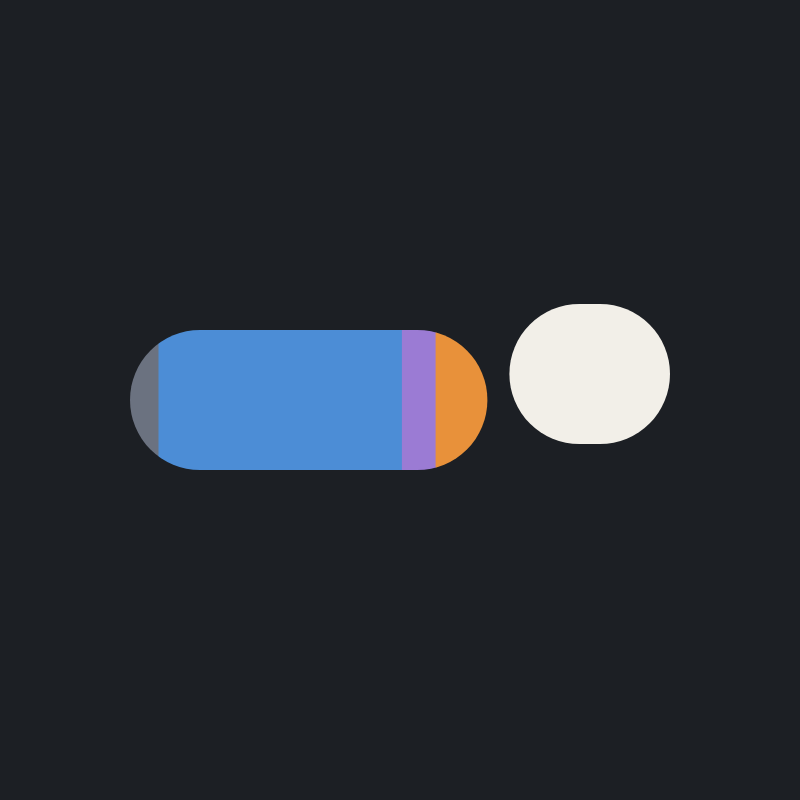
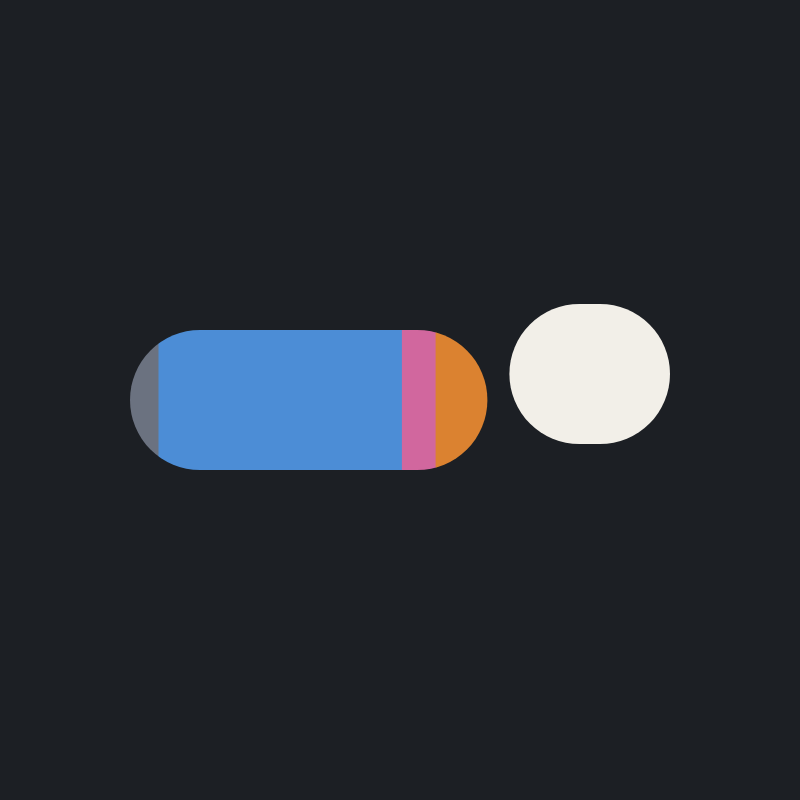
Add example video frames; fix colorblind clash in the slice palette
Six 1920x1080 example frames (The Split, Deal File, big number, comparison,
operator's ledger, TV layout guide) and a thumbnail concept. Payments slice
changes from violet to pink and location orange darkens slightly: violet
next to blue failed the colorblind-separation check. Logo re-rendered.

Claude-Session: https://claude.ai/code/session_019GF7TopvasLHrHcaYox71L

Changed region(s): [[0.5, 0.4062, 0.5625, 0.5938]]

diff --git a/brand/src/brand.html b/brand/src/brand.html
@@ -3,28 +3,28 @@
 <g clip-path="url(#c130330540)">
 <rect x="130.0" y="330" width="29.5" height="140" fill="#6B7280"/>
 <rect x="158.5" y="330" width="244.5" height="140" fill="#4C8DD6"/>
-<rect x="401.9" y="330" width="34.7" height="140" fill="#9B7BD4"/>
-<rect x="435.6" y="330" width="52.8" height="140" fill="#E8913A"/>
+<rect x="401.9" y="330" width="34.7" height="140" fill="#D1679E"/>
+<rect x="435.6" y="330" width="52.8" height="140" fill="#DB8230"/>
 </g>
-<rect x="509.4" y="304" width="160.6" height="140" rx="70.0" fill="#F2EFE8"/></svg><svg id="c2" xmlns="http://www.w3.org/2000/svg" width="800" height="800" viewBox="0 0 800 800"><rect width="800" height="800" fill="#1C1F24"/><path transform="translate(0.0,0.0)" d="M390,410 L622.4,502.0 A250,250 0 1 1 390.0,160.0 Z" fill="#E8913A"/><circle cx="390" cy="410" r="200" fill="none" stroke="#1C1F24" stroke-width="10" opacity=".35"/><path transform="translate(28.1,-19.1)" d="M390,410 L390.0,160.0 A250,250 0 0 1 622.4,502.0 Z" fill="#F2EFE8"/></svg><svg id="c3" xmlns="http://www.w3.org/2000/svg" width="800" height="800" viewBox="0 0 800 800"><rect width="800" height="800" fill="#1C1F24"/><text x="400" y="470" text-anchor="middle" style="font-family:'Inter Display','Inter',sans-serif;font-weight:900;font-size:330px;letter-spacing:-8px" fill="#F2EFE8">DP</text><clipPath id="c190540420"><rect x="190" y="540" width="281.5" height="52" rx="26.0"/></clipPath>
+<rect x="509.4" y="304" width="160.6" height="140" rx="70.0" fill="#F2EFE8"/></svg><svg id="c2" xmlns="http://www.w3.org/2000/svg" width="800" height="800" viewBox="0 0 800 800"><rect width="800" height="800" fill="#1C1F24"/><path transform="translate(0.0,0.0)" d="M390,410 L622.4,502.0 A250,250 0 1 1 390.0,160.0 Z" fill="#DB8230"/><circle cx="390" cy="410" r="200" fill="none" stroke="#1C1F24" stroke-width="10" opacity=".35"/><path transform="translate(28.1,-19.1)" d="M390,410 L390.0,160.0 A250,250 0 0 1 622.4,502.0 Z" fill="#F2EFE8"/></svg><svg id="c3" xmlns="http://www.w3.org/2000/svg" width="800" height="800" viewBox="0 0 800 800"><rect width="800" height="800" fill="#1C1F24"/><text x="400" y="470" text-anchor="middle" style="font-family:'Inter Display','Inter',sans-serif;font-weight:900;font-size:330px;letter-spacing:-8px" fill="#F2EFE8">DP</text><clipPath id="c190540420"><rect x="190" y="540" width="281.5" height="52" rx="26.0"/></clipPath>
 <g clip-path="url(#c190540420)">
 <rect x="190.0" y="540" width="23.4" height="52" fill="#6B7280"/>
 <rect x="212.4" y="540" width="192.8" height="52" fill="#4C8DD6"/>
-<rect x="404.2" y="540" width="27.5" height="52" fill="#9B7BD4"/>
-<rect x="430.7" y="540" width="41.8" height="52" fill="#E8913A"/>
+<rect x="404.2" y="540" width="27.5" height="52" fill="#D1679E"/>
+<rect x="430.7" y="540" width="41.8" height="52" fill="#DB8230"/>
 </g>
 <rect x="483.5" y="540" width="126.5" height="52" rx="26.0" fill="#F2EFE8"/></svg><svg id="wm" xmlns="http://www.w3.org/2000/svg" width="1600" height="400" viewBox="0 0 1600 400"><rect width="1600" height="400" fill="#1C1F24"/><text x="800" y="235" text-anchor="middle" style="font-family:'Inter Display','Inter',sans-serif;font-weight:900;font-size:170px;letter-spacing:4px"><tspan fill="#8B93A1">DULL</tspan><tspan dx="38" fill="#F2EFE8">PROFITS</tspan></text><clipPath id="c2502851100"><rect x="250" y="285" width="749.3" height="34" rx="17.0"/></clipPath>
 <g clip-path="url(#c2502851100)">
 <rect x="250.0" y="285" width="60.7" height="34" fill="#6B7280"/>
 <rect x="309.7" y="285" width="511.4" height="34" fill="#4C8DD6"/>
-<rect x="820.1" y="285" width="71.6" height="34" fill="#9B7BD4"/>
-<rect x="890.7" y="285" width="109.6" height="34" fill="#E8913A"/>
+<rect x="820.1" y="285" width="71.6" height="34" fill="#D1679E"/>
+<rect x="890.7" y="285" width="109.6" height="34" fill="#DB8230"/>
 </g>
 <rect x="1013.3" y="285" width="336.7" height="34" rx="17.0" fill="#F2EFE8"/></svg><svg id="ban" xmlns="http://www.w3.org/2000/svg" width="2560" height="1440" viewBox="0 0 2560 1440"><rect width="2560" height="1440" fill="#1C1F24"/><text x="1280" y="700" text-anchor="middle" style="font-family:'Inter Display','Inter',sans-serif;font-weight:900;font-size:150px;letter-spacing:4px"><tspan fill="#8B93A1">DULL</tspan><tspan dx="34" fill="#F2EFE8">PROFITS</tspan></text><clipPath id="c800735960"><rect x="800" y="735" width="654.1" height="30" rx="15.0"/></clipPath>
 <g clip-path="url(#c800735960)">
 <rect x="800.0" y="735" width="53.1" height="30" fill="#6B7280"/>
 <rect x="852.1" y="735" width="446.6" height="30" fill="#4C8DD6"/>
-<rect x="1297.7" y="735" width="62.6" height="30" fill="#9B7BD4"/>
-<rect x="1359.3" y="735" width="95.8" height="30" fill="#E8913A"/>
+<rect x="1297.7" y="735" width="62.6" height="30" fill="#D1679E"/>
+<rect x="1359.3" y="735" width="95.8" height="30" fill="#DB8230"/>
 </g>
 <rect x="1466.1" y="735" width="293.9" height="30" rx="15.0" fill="#F2EFE8"/><text x="1280" y="852" text-anchor="middle" style="font-family:Inter,sans-serif;font-weight:500;font-size:50px" fill="#F2EFE8" opacity=".85">The real numbers behind unglamorous businesses</text></svg></body></html>

diff --git a/docs/visual-examples/src/01-the-split.html b/docs/visual-examples/src/01-the-split.html
@@ -1,0 +1,18 @@
+<!doctype html><html><head><meta charset="utf-8"><style>
+*{box-sizing:border-box;margin:0;padding:0}
+body{width:1920px;height:1080px;background:#1C1F24;color:#F2EFE8;font-family:Inter,sans-serif;
+     font-variant-numeric:tabular-nums;overflow:hidden;position:relative}
+.h{font-family:'Inter Display',Inter,sans-serif;font-weight:900}
+.src{position:absolute;left:116px;top:862px;font:600 36px Inter;letter-spacing:1px;color:#8B93A1;text-transform:uppercase}
+.src b{color:#B9BEC7;font-weight:700}
+.title{position:absolute;left:116px;top:104px;font-size:60px;font-weight:800;letter-spacing:-.5px}
+.kicker{position:absolute;left:116px;top:56px;font:700 36px Inter;letter-spacing:3px;color:#8B93A1;text-transform:uppercase}
+</style></head><body>
+<div class="kicker">Follow the two dollars</div>
+<div class="title">Where a $2.00 vending soda goes</div>
+<div style="position:absolute;right:116px;top:60px;text-align:right">
+  <div style="font:700 36px Inter;letter-spacing:3px;color:#8B93A1;text-transform:uppercase">Operator keeps</div>
+  <div class="h" style="font-size:150px;line-height:1">$0.62</div>
+</div>
+<svg width="1920" height="1080" style="position:absolute;left:0;top:0" font-family="Inter"><rect x="116.0" y="420" width="91.5" height="150" rx="18" fill="#6B7280"/><line x1="161.8" y1="580" x2="161.8" y2="586" stroke="#343944" stroke-width="3"/><rect x="213.5" y="420" width="782.1" height="150" rx="18" fill="#4C8DD6"/><line x1="604.6" y1="580" x2="604.6" y2="711" stroke="#343944" stroke-width="3"/><rect x="1001.6" y="420" width="108.2" height="150" rx="18" fill="#D1679E"/><line x1="1055.7" y1="580" x2="1055.7" y2="711" stroke="#343944" stroke-width="3"/><rect x="1115.8" y="420" width="166.4" height="150" rx="18" fill="#DB8230"/><line x1="1199.0" y1="580" x2="1199.0" y2="586" stroke="#343944" stroke-width="3"/><rect x="1288.2" y="420" width="515.8" height="150" rx="18" fill="#F2EFE8"/><text x="1546.1" y="517.0" text-anchor="middle" font-size="58" font-weight="900" fill="#1C1F24" font-family="Inter Display">YOU 62¢</text><text x="116.0" y="630" text-anchor="start" font-size="40" font-weight="700" fill="#B9BEC7">TAX</text><text x="116.0" y="680" text-anchor="start" font-size="44" font-weight="800" fill="#F2EFE8">11¢</text><text x="604.6" y="755" text-anchor="middle" font-size="40" font-weight="700" fill="#B9BEC7">SUPPLIER</text><text x="604.6" y="805" text-anchor="middle" font-size="44" font-weight="800" fill="#F2EFE8">94¢</text><text x="1055.7" y="755" text-anchor="middle" font-size="40" font-weight="700" fill="#B9BEC7">CARD + SOFTWARE</text><text x="1055.7" y="805" text-anchor="middle" font-size="44" font-weight="800" fill="#F2EFE8">13¢</text><text x="1199.0" y="630" text-anchor="middle" font-size="40" font-weight="700" fill="#B9BEC7">LOCATION</text><text x="1199.0" y="680" text-anchor="middle" font-size="44" font-weight="800" fill="#F2EFE8">20¢</text></svg>
+<div class="src"><b>Source:</b> VMFS USA revenue-split model (6% tax, 10% commission)</div></body></html>

diff --git a/docs/visual-examples/src/05-operators-ledger.html b/docs/visual-examples/src/05-operators-ledger.html
@@ -1,0 +1,14 @@
+<!doctype html><html><head><meta charset="utf-8"><style>
+*{box-sizing:border-box;margin:0;padding:0}
+body{width:1920px;height:1080px;background:#1C1F24;color:#F2EFE8;font-family:Inter,sans-serif;
+     font-variant-numeric:tabular-nums;overflow:hidden;position:relative}
+.h{font-family:'Inter Display',Inter,sans-serif;font-weight:900}
+.src{position:absolute;left:116px;top:862px;font:600 36px Inter;letter-spacing:1px;color:#8B93A1;text-transform:uppercase}
+.src b{color:#B9BEC7;font-weight:700}
+.title{position:absolute;left:116px;top:104px;font-size:60px;font-weight:800;letter-spacing:-.5px}
+.kicker{position:absolute;left:116px;top:56px;font:700 36px Inter;letter-spacing:3px;color:#8B93A1;text-transform:uppercase}
+</style></head><body>
+<div class="kicker">A beginner's first six months</div>
+<div class="title">One operator's ledger</div>
+<div style="position:absolute;left:116px;top:200px;width:1688px"><div style="display:flex;justify-content:space-between;align-items:baseline;padding:26px 0;border-bottom:3px solid #343944;"><span style="font-size:48px">Two refurbished machines</span><span><span class="h" style="font-size:60px">$3,200</span><span style="font-size:36px;color:#B9BEC7"> </span></span></div><div style="display:flex;justify-content:space-between;align-items:baseline;padding:26px 0;border-bottom:3px solid #343944;"><span style="font-size:48px">Starting stock</span><span><span class="h" style="font-size:60px">$400</span><span style="font-size:36px;color:#B9BEC7"> </span></span></div><div style="display:flex;justify-content:space-between;align-items:baseline;padding:26px 0;border-bottom:3px solid #343944;"><span style="font-size:48px">Office machine (~50 staff)</span><span><span class="h" style="font-size:60px">$280–350</span><span style="font-size:36px;color:#B9BEC7"> /mo sales</span></span></div><div style="display:flex;justify-content:space-between;align-items:baseline;padding:26px 0;border-bottom:3px solid #343944;"><span style="font-size:48px">Auto repair shop</span><span><span class="h" style="font-size:60px">$120–180</span><span style="font-size:36px;color:#B9BEC7"> /mo sales</span></span></div><div style="display:flex;justify-content:space-between;align-items:baseline;padding:26px 0;border-bottom:3px solid #343944;color:#F2EFE8;font-weight:800"><span style="font-size:48px">Kept after gas, stock, repairs</span><span><span class="h" style="font-size:60px">$130–150</span><span style="font-size:36px;color:#B9BEC7"> /mo</span></span></div></div>
+<div class="src"><b>Source:</b> self-reported on Reddit (via Benzinga, Jan 2026), unverified</div></body></html>

diff --git a/docs/visual-examples/src/02-deal-file.html b/docs/visual-examples/src/02-deal-file.html
@@ -1,0 +1,22 @@
+<!doctype html><html><head><meta charset="utf-8"><style>
+*{box-sizing:border-box;margin:0;padding:0}
+body{width:1920px;height:1080px;background:#1C1F24;color:#F2EFE8;font-family:Inter,sans-serif;
+     font-variant-numeric:tabular-nums;overflow:hidden;position:relative}
+.h{font-family:'Inter Display',Inter,sans-serif;font-weight:900}
+.src{position:absolute;left:116px;top:862px;font:600 36px Inter;letter-spacing:1px;color:#8B93A1;text-transform:uppercase}
+.src b{color:#B9BEC7;font-weight:700}
+.title{position:absolute;left:116px;top:104px;font-size:60px;font-weight:800;letter-spacing:-.5px}
+.kicker{position:absolute;left:116px;top:56px;font:700 36px Inter;letter-spacing:3px;color:#8B93A1;text-transform:uppercase}
+</style></head><body>
+<svg width="1920" height="1080" style="position:absolute;left:0;top:0"><defs>
+<filter id="n"><feTurbulence type="fractalNoise" baseFrequency=".9" numOctaves="2" seed="3"/><feColorMatrix values="0 0 0 0 0  0 0 0 0 0  0 0 0 0 0  0 0 0 .08 0"/></filter></defs>
+<rect width="1920" height="1080" fill="#15171B"/><rect width="1920" height="1080" filter="url(#n)"/></svg>
+<div class="kicker">The deal file</div>
+<div style="position:absolute;left:250px;top:150px;width:1420px;padding:64px 80px;background:#EDE9E0;color:#22252B;
+  transform:rotate(-1.2deg);box-shadow:0 30px 80px rgba(0,0,0,.55);font-family:'DejaVu Serif',Georgia,serif">
+  <div style="font:700 34px Inter;letter-spacing:2px;color:#6B6F78;text-transform:uppercase;margin-bottom:34px">LAWA Board report · Feb 16, 2023 · excerpt (retyped)</div>
+  <div style="font-size:48px;line-height:1.55">First Class will pay LAWA the greater of a minimum monthly guarantee of $100 per machine or
+  <span style="background:linear-gradient(transparent 12%, #F5D547cc 12%, #F5D547cc 92%, transparent 92%);padding:0 6px;font-weight:700">59.5 percent of gross sales</span>
+  over the five-year term and any approved options.</div>
+</div>
+<div class="src"><b>Source:</b> LA Board of Airport Commissioners, Feb 16 2023</div></body></html>

diff --git a/docs/visual-examples/src/04-comparison.html b/docs/visual-examples/src/04-comparison.html
@@ -1,0 +1,15 @@
+<!doctype html><html><head><meta charset="utf-8"><style>
+*{box-sizing:border-box;margin:0;padding:0}
+body{width:1920px;height:1080px;background:#1C1F24;color:#F2EFE8;font-family:Inter,sans-serif;
+     font-variant-numeric:tabular-nums;overflow:hidden;position:relative}
+.h{font-family:'Inter Display',Inter,sans-serif;font-weight:900}
+.src{position:absolute;left:116px;top:862px;font:600 36px Inter;letter-spacing:1px;color:#8B93A1;text-transform:uppercase}
+.src b{color:#B9BEC7;font-weight:700}
+.title{position:absolute;left:116px;top:104px;font-size:60px;font-weight:800;letter-spacing:-.5px}
+.kicker{position:absolute;left:116px;top:56px;font:700 36px Inter;letter-spacing:3px;color:#8B93A1;text-transform:uppercase}
+</style></head><body>
+<div class="kicker">Micro markets and smart stores</div>
+<div class="title">Average purchase, 2025</div>
+<svg width="1920" height="1080" style="position:absolute;left:0;top:0" font-family="Inter">
+  <line x1="560" y1="270" x2="560" y2="755" stroke="#343944" stroke-width="3"/><text x="524" y="368" text-anchor="end" font-size="48" font-weight="700" fill="#F2EFE8">Vending machine</text><rect x="560" y="300" width="452" height="100" rx="8" fill="#4C8DD6"/><text x="1040" y="370" font-size="64" font-weight="900" font-family="Inter Display" fill="#F2EFE8">$2.01</text><text x="524" y="533" text-anchor="end" font-size="48" font-weight="700" fill="#F2EFE8">Micro market</text><rect x="560" y="465" width="679" height="100" rx="8" fill="#4C8DD6"/><text x="1267" y="535" font-size="64" font-weight="900" font-family="Inter Display" fill="#F2EFE8">$3.02</text><text x="524" y="698" text-anchor="end" font-size="48" font-weight="700" fill="#F2EFE8">Smart store</text><rect x="560" y="630" width="1010" height="100" rx="8" fill="#4C8DD6"/><text x="1598" y="700" font-size="64" font-weight="900" font-family="Inter Display" fill="#F2EFE8">$4.49</text></svg>
+<div class="src"><b>Source:</b> Cantaloupe Micropayment Trends Report 2026</div></body></html>

diff --git a/docs/visual-examples/src/06-tv-layout-guide.html b/docs/visual-examples/src/06-tv-layout-guide.html
@@ -1,0 +1,22 @@
+<!doctype html><html><head><meta charset="utf-8"><style>
+*{box-sizing:border-box;margin:0;padding:0}
+body{width:1920px;height:1080px;background:#1C1F24;color:#F2EFE8;font-family:Inter,sans-serif;
+     font-variant-numeric:tabular-nums;overflow:hidden;position:relative}
+.h{font-family:'Inter Display',Inter,sans-serif;font-weight:900}
+.src{position:absolute;left:116px;top:862px;font:600 36px Inter;letter-spacing:1px;color:#8B93A1;text-transform:uppercase}
+.src b{color:#B9BEC7;font-weight:700}
+.title{position:absolute;left:116px;top:104px;font-size:60px;font-weight:800;letter-spacing:-.5px}
+.kicker{position:absolute;left:116px;top:56px;font:700 36px Inter;letter-spacing:3px;color:#8B93A1;text-transform:uppercase}
+</style></head><body>
+<svg width="1920" height="1080" style="position:absolute;left:0;top:0" font-family="Inter">
+ <rect x="116" y="65" width="1688" height="853" fill="none" stroke="#4C8DD6" stroke-width="4" stroke-dasharray="18 12"/>
+ <rect x="0" y="918" width="1920" height="162" fill="#DB8230" opacity=".22"/>
+ <text x="960" y="1010" text-anchor="middle" font-size="40" font-weight="800" fill="#F2EFE8">BOTTOM 15%: keep clear (progress bar, captions, end screens)</text>
+ <text x="140" y="110" font-size="36" font-weight="700" fill="#4C8DD6">SAFE AREA: 6% margin on every edge</text>
+</svg>
+<div style="position:absolute;left:170px;top:170px">
+  <div class="h" style="font-size:160px;line-height:1">$0.62</div><div style="font-size:36px;color:#B9BEC7;margin-bottom:40px">Key number: 120–200 px</div>
+  <div style="font-size:52px;font-weight:700">Labels and titles: 48–56 px</div><div style="font-size:36px;color:#B9BEC7;margin-bottom:40px">Inter, bold, tabular numbers</div>
+  <div style="font-size:36px;font-weight:600">Smallest text anywhere: 36 px</div>
+  <div style="font-size:36px;color:#B9BEC7;margin-top:40px">Off-white #F2EFE8 on charcoal #1C1F24 · one idea per screen · hold 4–8 s</div>
+</div></body></html>

diff --git a/docs/visual-examples/src/03-big-number.html b/docs/visual-examples/src/03-big-number.html
@@ -1,0 +1,22 @@
+<!doctype html><html><head><meta charset="utf-8"><style>
+*{box-sizing:border-box;margin:0;padding:0}
+body{width:1920px;height:1080px;background:#1C1F24;color:#F2EFE8;font-family:Inter,sans-serif;
+     font-variant-numeric:tabular-nums;overflow:hidden;position:relative}
+.h{font-family:'Inter Display',Inter,sans-serif;font-weight:900}
+.src{position:absolute;left:116px;top:862px;font:600 36px Inter;letter-spacing:1px;color:#8B93A1;text-transform:uppercase}
+.src b{color:#B9BEC7;font-weight:700}
+.title{position:absolute;left:116px;top:104px;font-size:60px;font-weight:800;letter-spacing:-.5px}
+.kicker{position:absolute;left:116px;top:56px;font:700 36px Inter;letter-spacing:3px;color:#8B93A1;text-transform:uppercase}
+</style></head><body>
+<div class="kicker">Winner #1: the location</div>
+<div style="position:absolute;left:116px;top:150px">
+  <div class="h" style="font-size:300px;line-height:1;letter-spacing:-6px">59.5%</div>
+  <div style="font-size:64px;font-weight:700;margin-top:10px">of every vending sale at LAX goes to the airport</div><div style="font-size:40px;color:#B9BEC7;margin-top:14px">or $100 per machine a month, whichever is more</div>
+</div>
+<svg width="1920" height="1080" style="position:absolute;left:0;top:0" font-family="Inter">
+  <rect x="116" y="720" width="1004" height="96" rx="16" fill="#DB8230"/>
+  <rect x="1126" y="720" width="678" height="96" rx="16" fill="#F2EFE8"/>
+  <text x="140" y="782" font-size="40" font-weight="800" fill="#1C1F24">AIRPORT 59.5%</text>
+  <text x="1150" y="782" font-size="40" font-weight="800" fill="#1C1F24">OPERATOR 40.5%</text>
+</svg>
+<div class="src"><b>Source:</b> LAX vending contract, Feb 16 2023</div></body></html>

diff --git a/docs/visual-examples/src/thumbnail-concept.html b/docs/visual-examples/src/thumbnail-concept.html
@@ -1,0 +1,11 @@
+<!doctype html><html><head><meta charset="utf-8"><style>*{margin:0}body{width:1280px;height:720px;background:#1C1F24;
+font-family:'Inter Display',Inter,sans-serif;color:#F2EFE8;overflow:hidden;position:relative}</style></head><body>
+<div style="position:absolute;left:70px;top:70px;font-weight:900;font-size:120px;letter-spacing:-2px">$2.00 SODA</div>
+<svg width="1280" height="720" style="position:absolute;left:0;top:0">
+ <rect x="70" y="300" width="620" height="190" rx="22" fill="#4C8DD6"/>
+ <rect x="700" y="300" width="70" height="190" rx="14" fill="#DB8230"/>
+ <rect x="796" y="270" width="414" height="250" rx="26" fill="#F2EFE8"/>
+ <text x="1003" y="430" text-anchor="middle" font-family="Inter Display" font-weight="900" font-size="116" fill="#1C1F24">62¢</text>
+</svg>
+<div style="position:absolute;left:796px;top:545px;width:414px;text-align:center;font-weight:900;font-size:64px">YOU</div>
+</body></html>

diff --git a/docs/visual-examples/src/render.js b/docs/visual-examples/src/render.js
@@ -1,0 +1,11 @@
+const { chromium } = require('playwright'); const fs = require('fs'); const path = require('path');
+(async () => {
+  const b = await chromium.launch();
+  for (const f of fs.readdirSync(__dirname).filter(f => f.endsWith('.html'))) {
+    const thumb = f.startsWith('thumbnail');
+    const p = await b.newPage({ viewport: thumb ? { width: 1280, height: 720 } : { width: 1920, height: 1080 } });
+    await p.goto('file://' + path.join(__dirname, f)); await p.evaluate(() => document.fonts.ready);
+    await p.screenshot({ path: path.join(__dirname, '..', f.replace('.html', '.png')) }); await p.close();
+  }
+  await b.close();
+})();

diff --git a/docs/visual-examples/src/frames.py b/docs/visual-examples/src/frames.py
@@ -1,0 +1,159 @@
+"""Generate example 1920x1080 frames for the Dull Profits visual style (render with render.js)."""
+C = dict(bg="#1C1F24", bg2="#15171B", panel="#252932", ink="#F2EFE8", ink2="#B9BEC7", muted="#8B93A1", grid="#343944",
+         tax="#6B7280", sup="#4C8DD6", pay="#D1679E", loc="#DB8230", own="#F2EFE8", cost="#C9A227", hl="#F5D547")
+
+BASE = f"""<!doctype html><html><head><meta charset="utf-8"><style>
+*{{box-sizing:border-box;margin:0;padding:0}}
+body{{width:1920px;height:1080px;background:{C['bg']};color:{C['ink']};font-family:Inter,sans-serif;
+     font-variant-numeric:tabular-nums;overflow:hidden;position:relative}}
+.h{{font-family:'Inter Display',Inter,sans-serif;font-weight:900}}
+.src{{position:absolute;left:116px;top:862px;font:600 36px Inter;letter-spacing:1px;color:{C['muted']};text-transform:uppercase}}
+.src b{{color:{C['ink2']};font-weight:700}}
+.title{{position:absolute;left:116px;top:104px;font-size:60px;font-weight:800;letter-spacing:-.5px}}
+.kicker{{position:absolute;left:116px;top:56px;font:700 36px Inter;letter-spacing:3px;color:{C['muted']};text-transform:uppercase}}
+</style></head><body>{{body}}</body></html>"""
+
+def page(body): return BASE.replace("{body}", body)
+
+# ---------- 1. The Split ----------
+def split_frame():
+    slices = [("TAX", 11, "tax"), ("SUPPLIER", 94, "sup"), ("CARD + SOFTWARE", 13, "pay"), ("LOCATION", 20, "loc"), ("YOU", 62, "own")]
+    x0, W, y, H, gap = 116, 1688, 420, 150, 6
+    unit = (W - gap * (len(slices) - 1)) / 200
+    svg, labels, x = [], [], x0
+    for i, (name, cents, k) in enumerate(slices):
+        w = cents * unit
+        r = 18
+        svg.append(f'<rect x="{x:.1f}" y="{y}" width="{w:.1f}" height="{H}" rx="{r}" fill="{C[k]}"/>')
+        cx = x + w / 2
+        row = 0 if name in ("TAX", "LOCATION", "YOU") else 1
+        ly = 630 if row == 0 else 755
+        if name == "YOU":
+            pass
+        else:
+            svg.append(f'<line x1="{cx:.1f}" y1="{y+H+10}" x2="{cx:.1f}" y2="{ly-44}" stroke="{C["grid"]}" stroke-width="3"/>')
+            anchor = "middle"
+            tx = cx
+            if name == "TAX": anchor, tx = "start", x
+            labels.append(f'<text x="{tx:.1f}" y="{ly}" text-anchor="{anchor}" font-size="40" font-weight="700" fill="{C["ink2"]}">{name}</text>'
+                          f'<text x="{tx:.1f}" y="{ly+50}" text-anchor="{anchor}" font-size="44" font-weight="800" fill="{C["ink"]}">{cents}¢</text>')
+        x += w + gap
+    you_x = x0 + W - 62 * unit
+    svg.append(f'<text x="{you_x + 62*unit/2:.1f}" y="{y+H/2+22}" text-anchor="middle" font-size="58" font-weight="900" fill="{C["bg"]}" font-family="Inter Display">YOU 62¢</text>')
+    body = f"""
+<div class="kicker">Follow the two dollars</div>
+<div class="title">Where a $2.00 vending soda goes</div>
+<div style="position:absolute;right:116px;top:60px;text-align:right">
+  <div style="font:700 36px Inter;letter-spacing:3px;color:{C['muted']};text-transform:uppercase">Operator keeps</div>
+  <div class="h" style="font-size:150px;line-height:1">$0.62</div>
+</div>
+<svg width="1920" height="1080" style="position:absolute;left:0;top:0" font-family="Inter">{''.join(svg)}{''.join(labels)}</svg>
+<div class="src"><b>Source:</b> VMFS USA revenue-split model (6% tax, 10% commission)</div>"""
+    return page(body)
+
+# ---------- 2. Deal File ----------
+def deal_frame():
+    body = f"""
+<svg width="1920" height="1080" style="position:absolute;left:0;top:0"><defs>
+<filter id="n"><feTurbulence type="fractalNoise" baseFrequency=".9" numOctaves="2" seed="3"/><feColorMatrix values="0 0 0 0 0  0 0 0 0 0  0 0 0 0 0  0 0 0 .08 0"/></filter></defs>
+<rect width="1920" height="1080" fill="{C['bg2']}"/><rect width="1920" height="1080" filter="url(#n)"/></svg>
+<div class="kicker">The deal file</div>
+<div style="position:absolute;left:250px;top:150px;width:1420px;padding:64px 80px;background:#EDE9E0;color:#22252B;
+  transform:rotate(-1.2deg);box-shadow:0 30px 80px rgba(0,0,0,.55);font-family:'DejaVu Serif',Georgia,serif">
+  <div style="font:700 34px Inter;letter-spacing:2px;color:#6B6F78;text-transform:uppercase;margin-bottom:34px">LAWA Board report · Feb 16, 2023 · excerpt (retyped)</div>
+  <div style="font-size:48px;line-height:1.55">First Class will pay LAWA the greater of a minimum monthly guarantee of $100 per machine or
+  <span style="background:linear-gradient(transparent 12%, {C['hl']}cc 12%, {C['hl']}cc 92%, transparent 92%);padding:0 6px;font-weight:700">59.5 percent of gross sales</span>
+  over the five-year term and any approved options.</div>
+</div>
+<div class="src"><b>Source:</b> LA Board of Airport Commissioners, Feb 16 2023</div>"""
+    return page(body)
+
+# ---------- 3. Big number ----------
+def big_frame():
+    w = 1688
+    body = f"""
+<div class="kicker">Winner #1: the location</div>
+<div style="position:absolute;left:116px;top:150px">
+  <div class="h" style="font-size:300px;line-height:1;letter-spacing:-6px">59.5%</div>
+  <div style="font-size:64px;font-weight:700;margin-top:10px">of every vending sale at LAX goes to the airport</div><div style="font-size:40px;color:#B9BEC7;margin-top:14px">or $100 per machine a month, whichever is more</div>
+</div>
+<svg width="1920" height="1080" style="position:absolute;left:0;top:0" font-family="Inter">
+  <rect x="116" y="720" width="{w*0.595:.0f}" height="96" rx="16" fill="{C['loc']}"/>
+  <rect x="{116 + w*0.595 + 6:.0f}" y="720" width="{w*0.405 - 6:.0f}" height="96" rx="16" fill="{C['own']}"/>
+  <text x="140" y="782" font-size="40" font-weight="800" fill="{C['bg']}">AIRPORT 59.5%</text>
+  <text x="{116 + w*0.595 + 30:.0f}" y="782" font-size="40" font-weight="800" fill="{C['bg']}">OPERATOR 40.5%</text>
+</svg>
+<div class="src"><b>Source:</b> LAX vending contract, Feb 16 2023</div>"""
+    return page(body)
+
+# ---------- 4. Comparison bars (single series) ----------
+def compare_frame():
+    rows = [("Vending machine", 2.01), ("Micro market", 3.02), ("Smart store", 4.49)]
+    x0, maxw, y0 = 560, 1010, 300
+    s = []
+    for i, (name, v) in enumerate(rows):
+        y = y0 + i * 165
+        w = v / 4.49 * maxw
+        s.append(f'<text x="{x0-36}" y="{y+68}" text-anchor="end" font-size="48" font-weight="700" fill="{C["ink"]}">{name}</text>')
+        s.append(f'<rect x="{x0}" y="{y}" width="{w:.0f}" height="100" rx="8" fill="{C["sup"]}"/>')
+        s.append(f'<text x="{x0 + w + 28:.0f}" y="{y+70}" font-size="64" font-weight="900" font-family="Inter Display" fill="{C["ink"]}">${v:.2f}</text>')
+    body = f"""
+<div class="kicker">Micro markets and smart stores</div>
+<div class="title">Average purchase, 2025</div>
+<svg width="1920" height="1080" style="position:absolute;left:0;top:0" font-family="Inter">
+  <line x1="{x0}" y1="{y0-30}" x2="{x0}" y2="{y0+3*165-40}" stroke="{C['grid']}" stroke-width="3"/>{''.join(s)}</svg>
+<div class="src"><b>Source:</b> Cantaloupe Micropayment Trends Report 2026</div>"""
+    return page(body)
+
+# ---------- 5. Operator's ledger ----------
+def ledger_frame():
+    rows = [("Two refurbished machines", "$3,200", ""), ("Starting stock", "$400", ""),
+            ("Office machine (~50 staff)", "$280–350", "/mo sales"), ("Auto repair shop", "$120–180", "/mo sales"),
+            ("Kept after gas, stock, repairs", "$130–150", "/mo")]
+    trs = "".join(f'<div style="display:flex;justify-content:space-between;align-items:baseline;padding:26px 0;border-bottom:3px solid {C["grid"]};'
+                  f'{"color:"+C["ink"]+";font-weight:800" if i==4 else ""}"><span style="font-size:48px">{a}</span>'
+                  f'<span><span class="h" style="font-size:60px">{b}</span><span style="font-size:36px;color:{C["ink2"]}"> {c}</span></span></div>'
+                  for i, (a, b, c) in enumerate(rows))
+    body = f"""
+<div class="kicker">A beginner's first six months</div>
+<div class="title">One operator's ledger</div>
+<div style="position:absolute;left:116px;top:200px;width:1688px">{trs}</div>
+<div class="src"><b>Source:</b> self-reported on Reddit (via Benzinga, Jan 2026), unverified</div>"""
+    return page(body)
+
+# ---------- 6. Thumbnail (1280x720) ----------
+def thumb():
+    return f"""<!doctype html><html><head><meta charset="utf-8"><style>*{{margin:0}}body{{width:1280px;height:720px;background:{C['bg']};
+font-family:'Inter Display',Inter,sans-serif;color:{C['ink']};overflow:hidden;position:relative}}</style></head><body>
+<div style="position:absolute;left:70px;top:70px;font-weight:900;font-size:120px;letter-spacing:-2px">$2.00 SODA</div>
+<svg width="1280" height="720" style="position:absolute;left:0;top:0">
+ <rect x="70" y="300" width="620" height="190" rx="22" fill="{C['sup']}"/>
+ <rect x="700" y="300" width="70" height="190" rx="14" fill="{C['loc']}"/>
+ <rect x="796" y="270" width="414" height="250" rx="26" fill="{C['own']}"/>
+ <text x="1003" y="430" text-anchor="middle" font-family="Inter Display" font-weight="900" font-size="116" fill="{C['bg']}">62¢</text>
+</svg>
+<div style="position:absolute;left:796px;top:545px;width:414px;text-align:center;font-weight:900;font-size:64px">YOU</div>
+</body></html>"""
+
+# ---------- 7. TV layout guide ----------
+def guide_frame():
+    body = f"""
+<svg width="1920" height="1080" style="position:absolute;left:0;top:0" font-family="Inter">
+ <rect x="116" y="65" width="1688" height="853" fill="none" stroke="{C['sup']}" stroke-width="4" stroke-dasharray="18 12"/>
+ <rect x="0" y="918" width="1920" height="162" fill="{C['loc']}" opacity=".22"/>
+ <text x="960" y="1010" text-anchor="middle" font-size="40" font-weight="800" fill="{C['ink']}">BOTTOM 15%: keep clear (progress bar, captions, end screens)</text>
+ <text x="140" y="110" font-size="36" font-weight="700" fill="{C['sup']}">SAFE AREA: 6% margin on every edge</text>
+</svg>
+<div style="position:absolute;left:170px;top:170px">
+  <div class="h" style="font-size:160px;line-height:1">$0.62</div><div style="font-size:36px;color:{C['ink2']};margin-bottom:40px">Key number: 120–200 px</div>
+  <div style="font-size:52px;font-weight:700">Labels and titles: 48–56 px</div><div style="font-size:36px;color:{C['ink2']};margin-bottom:40px">Inter, bold, tabular numbers</div>
+  <div style="font-size:36px;font-weight:600">Smallest text anywhere: 36 px</div>
+  <div style="font-size:36px;color:{C['ink2']};margin-top:40px">Off-white #F2EFE8 on charcoal #1C1F24 · one idea per screen · hold 4–8 s</div>
+</div>"""
+    return page(body)
+
+frames = {"01-the-split": split_frame(), "02-deal-file": deal_frame(), "03-big-number": big_frame(),
+          "04-comparison": compare_frame(), "05-operators-ledger": ledger_frame(), "06-tv-layout-guide": guide_frame()}
+for k, v in frames.items(): open(f"{k}.html", "w").write(v)
+open("thumbnail-concept.html", "w").write(thumb())
+print("ok")

diff --git a/docs/visual-style-guide.md b/docs/visual-style-guide.md
@@ -34,14 +34,17 @@ Ep 1: `$2.00 → $1.89 (tax) → $0.95 (supplier) → $0.86 (card) → $0.82 (so
 | Background | `#1C1F24` charcoal | Every graphic. Avoid full-screen white, which looks harsh on TVs |
 | Text | `#F2EFE8` off-white | At least 7:1 contrast |
 | **Owner (what's left)** | `#F2EFE8` cream, bold outline | Always the same. It's the "you" slice |
-| Location / landlord | `#E8913A` orange | |
+| Location / landlord | `#DB8230` orange | |
 | Supplier / product | `#4C8DD6` blue | |
-| Payments / tech | `#9B7BD4` violet | |
+| Payments / tech | `#D1679E` pink | was violet; changed because violet next to blue failed the colorblind check |
 | Tax / government | `#6B7280` grey | |
 | Operating costs | `#C9A227` mustard | gas, labor, repairs |
 | Highlighter | `#F5D547` | Deal File sweeps only |
 
-Always label slices with text as well as color, since 1 in 12 men is colorblind. Never pair red with green.
+Blue, pink and orange pass a colorblind-separation check (`dataviz` validator, dark mode, on `#1C1F24`). Gray (tax) and cream (owner)
+are deliberately neutral and highlight colors. Always label slices with text as well as color, since 1 in 12 men is colorblind. Never pair red with green.
+
+**Example frames** at real 1920×1080 size: `docs/visual-examples/` (sources in `docs/visual-examples/src`).
 
 ## Type
 - **Inter** (Google Fonts, free for commercial use) with **tabular numbers** turned on, so counters don't jiggle.
